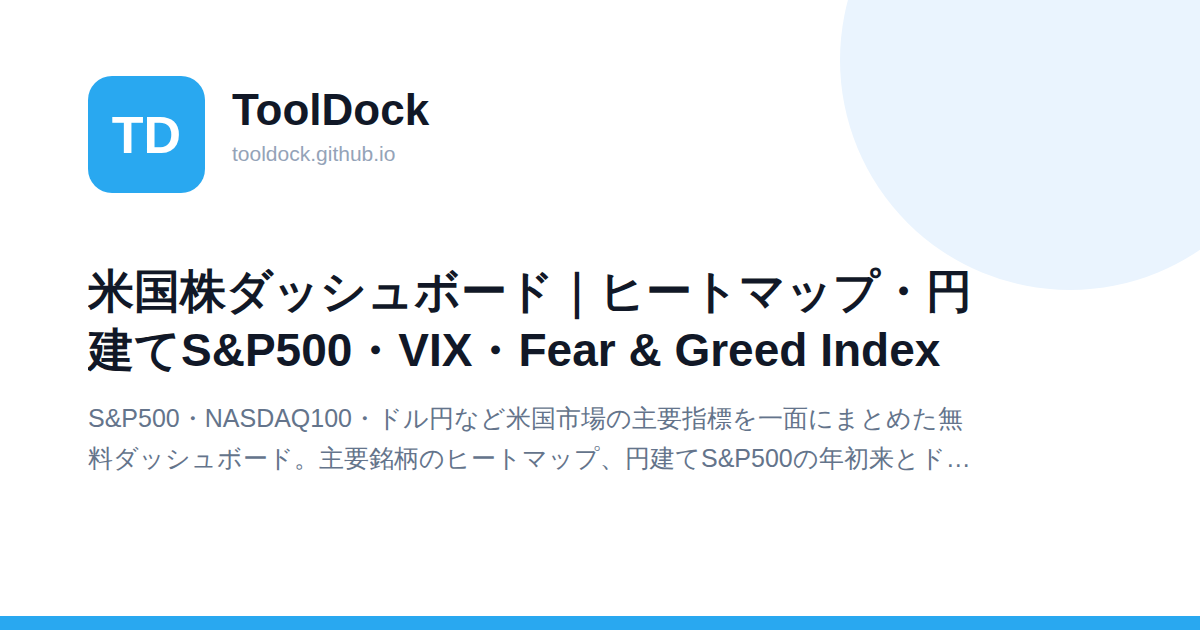
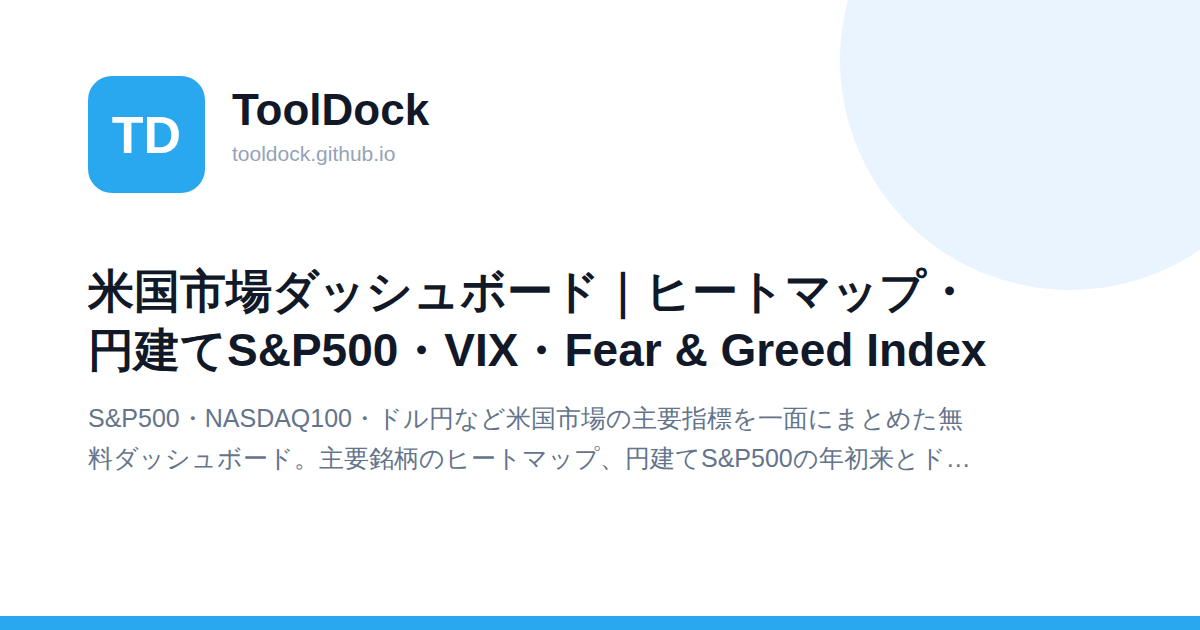
「米国株ダッシュボード」を「米国市場ダッシュボード」に改名
「米国株」という言い方はSBI証券をはじめ大手金融メディアが
軒並み使っており、競合が強すぎる。「米国市場」の方が競合が
少ない見込みのため改名する。title・h1・seoTitle・ホームページの
一覧・OGP画像を更新。自動更新ワークフローのテンプレート
（market/web/index.html）と現在の公開ページ（us-market/index.html）
の両方を直す。

Claude-Session: https://claude.ai/code/session_01SKh1jhAp32CEmbZCaaEmgk

Changed region(s): [[0.0617, 0.4222, 0.8325, 0.6032]]

diff --git a/market/web/index.html b/market/web/index.html
@@ -6,7 +6,7 @@
 
 <!-- title / description / canonical は静的に置く。
      head.js は「既に無ければ補う」作りなので、必ずこの順で -->
-<title>米国株ダッシュボード｜ヒートマップ・円建てS&P500・VIX・Fear & Greed Index</title>
+<title>米国市場ダッシュボード｜ヒートマップ・円建てS&P500・VIX・Fear & Greed Index</title>
 <meta name="description" content="S&P500・NASDAQ100・ドル円など米国市場の主要指標を一面にまとめた無料ダッシュボード。主要銘柄のヒートマップ、円建てS&P500の年初来とドローダウン、VIX、Fear &amp; Greed Indexも一緒に確認できます。1日・1ヶ月・年初来・1年・5年でチャートを切り替え可能。平日の朝に自動更新されます。">
 <link rel="canonical" href="https://tooldock.github.io/us-market/">
 
@@ -34,7 +34,7 @@
   <header class="board__header">
     <!-- 見出しはページ自身のもの。market.json から流し込むと、
          データの更新が回るまで古い見出しが出てしまう -->
-    <h1 class="board__title">米国株ダッシュボード</h1>
+    <h1 class="board__title">米国市場ダッシュボード</h1>
     <p class="board__session" hidden><time data-bind="session_text"></time>（米国時間）の終値</p>
     <p class="board__updated">最終更新 <time data-bind="generated_at_text"></time><span class="board__cycle">米国市場が開いた日の翌朝8時ごろに更新しています</span></p>
   </header>

diff --git a/us-market/index.html b/us-market/index.html
@@ -6,7 +6,7 @@
 
 <!-- title / description / canonical は静的に置く。
      head.js は「既に無ければ補う」作りなので、必ずこの順で -->
-<title>米国株ダッシュボード｜ヒートマップ・円建てS&P500・VIX・Fear & Greed Index</title>
+<title>米国市場ダッシュボード｜ヒートマップ・円建てS&P500・VIX・Fear & Greed Index</title>
 <meta name="description" content="S&P500・NASDAQ100・ドル円など米国市場の主要指標を一面にまとめた無料ダッシュボード。主要銘柄のヒートマップ、円建てS&P500の年初来とドローダウン、VIX、Fear &amp; Greed Indexも一緒に確認できます。1日・1ヶ月・年初来・1年・5年でチャートを切り替え可能。平日の朝に自動更新されます。">
 <link rel="canonical" href="https://tooldock.github.io/us-market/">
 
@@ -34,7 +34,7 @@
   <header class="board__header">
     <!-- 見出しはページ自身のもの。market.json から流し込むと、
          データの更新が回るまで古い見出しが出てしまう -->
-    <h1 class="board__title">米国株ダッシュボード</h1>
+    <h1 class="board__title">米国市場ダッシュボード</h1>
     <p class="board__session" hidden><time data-bind="session_text"></time>（米国時間）の終値</p>
     <p class="board__updated">最終更新 <time data-bind="generated_at_text"></time><span class="board__cycle">米国市場が開いた日の翌朝8時ごろに更新しています</span></p>
   </header>

diff --git a/js/tool-data.js b/js/tool-data.js
@@ -51,9 +51,9 @@ window.TOOLS = [
 
   {
     id: "us-market",
-    title: "米国株ダッシュボード",
+    title: "米国市場ダッシュボード",
     desc: "主要銘柄のヒートマップ、円建てS&P500、VIX、Fear & Greed Indexなど、昨夜引けた米国市場を一面にまとめたダッシュボード。",
-    seoTitle: "米国株ダッシュボード｜ヒートマップ・円建てS&P500・VIX・Fear & Greed Index",
+    seoTitle: "米国市場ダッシュボード｜ヒートマップ・円建てS&P500・VIX・Fear & Greed Index",
     seoDesc: "S&P500・NASDAQ100・ドル円など米国市場の主要指標を一面にまとめた無料ダッシュボード。主要銘柄のヒートマップ、円建てS&P500の年初来とドローダウン、VIX、Fear & Greed Indexも一緒に確認できます。1日・1ヶ月・年初来・1年・5年でチャートを切り替え可能。平日の朝に自動更新されます。",
     category: "finance",
     url: "/us-market/"

diff --git a/index.html b/index.html
@@ -145,7 +145,7 @@ ToolDockは、ブラウザだけで使える無料のWebツールを集めたサ
   </ul>
   <h2>金融</h2>
   <ul>
-    <li><a href="/us-market/">米国株ダッシュボード</a></li>
+    <li><a href="/us-market/">米国市場ダッシュボード</a></li>
     <li><a href="/fukuri/">複利計算・積立シミュレーター</a></li>
     <li><a href="/torikuzushi/">取り崩しシミュレーター</a></li>
     <li><a href="/ikkatsu/">一括投資と積立投資の比較</a></li>
